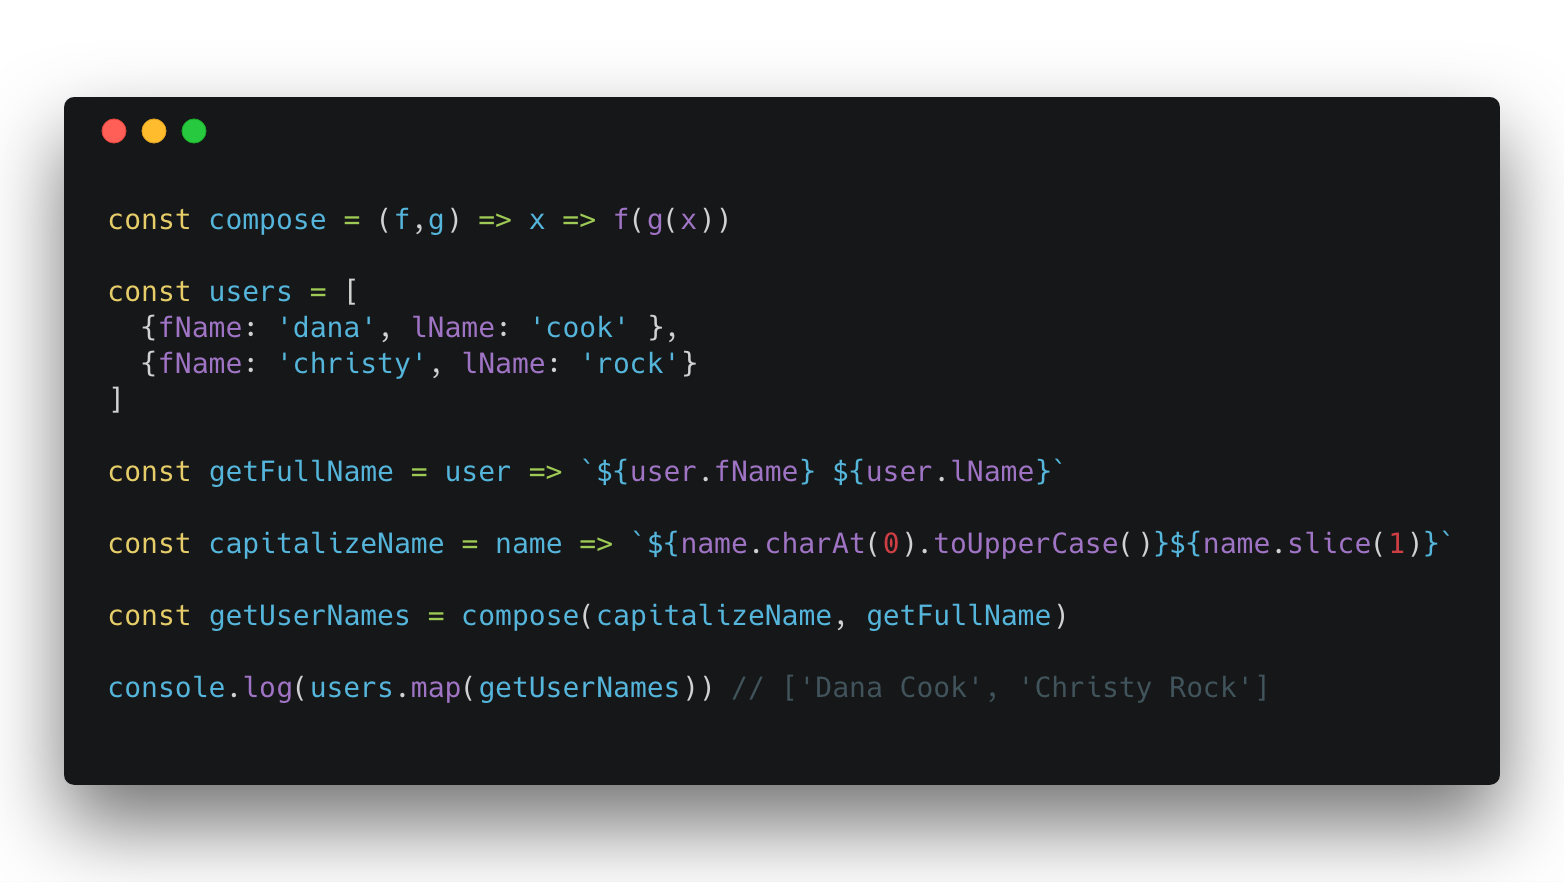
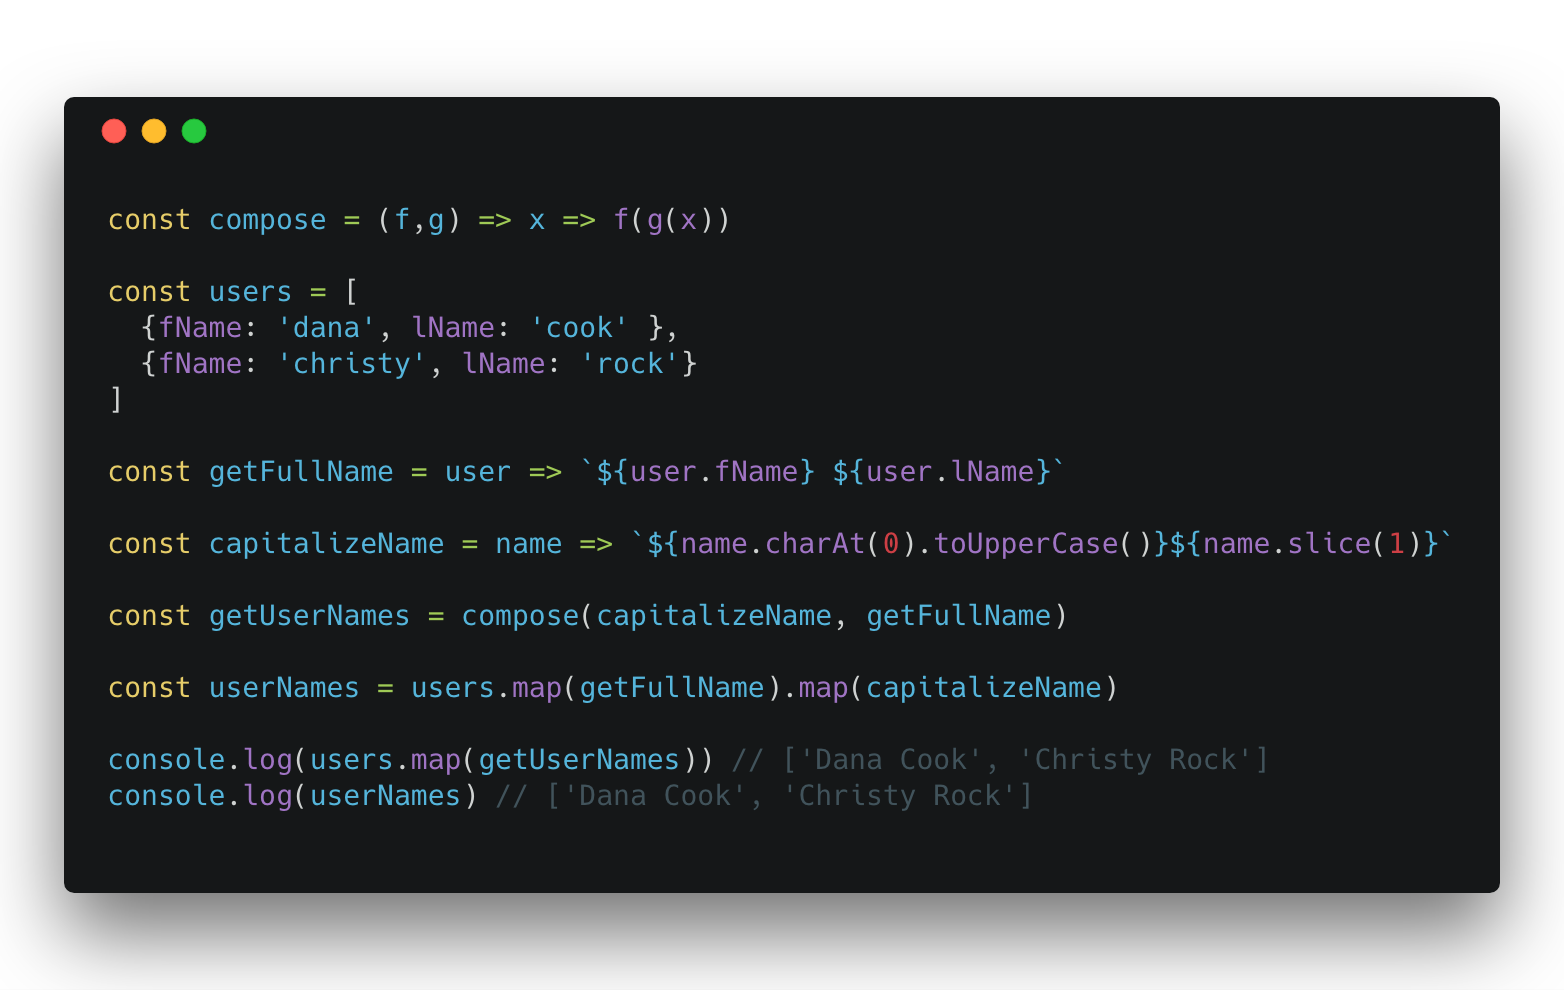
Using right image and also did a rewrite

diff --git a/content/collections/posts/get-to-the-point-free.md b/content/collections/posts/get-to-the-point-free.md
@@ -5,13 +5,12 @@ date: '2018-07-16'
 tags:
 - functional programming
 - point free
-- eta conversion
 - tacit programming
 ---
 
-No one likes to repeat themselves.
+Whether it's in software, conversation or the fifth grade - no one likes to repeat themselves.
 
-Whether it's in software, conversation or the fifth grade, we admonish repetition in favor of abstraction.
+As software developers we're admonished against repetition and counseled instead to seek abstraction. Functional programmers are especially enamored with abstraction and have several techniques to help aid them achieve modularity.
 
 **Point free style** or **tacit programming** is a way of defining functions that doesn't explicitly identify it's parameters.
 
@@ -21,9 +20,9 @@ When I first read that definition I imagined something like this:
 
 `const greet = () => "Hello" + name`
 
-In that example, you would surely be asking yourself where the variable `name` came from. It wasn't a parameter of `greet` so it must be some global state or possibly even an undefined variable destined to crash your program.
+In that example, you would surely be asking yourself where the variable `name` came from. As `name` isn't a parameter of `greet` it must be some global state or possibly even an undefined variable destined to crash your program. The good news is that this sort of <a target="_blank" href="https://medium.com/@jamesjefferyuk/javascript-what-are-pure-functions-4d4d5392d49c">impure</a> code isn't an example of tacit programming.
 
-In reality the way we acheive **point free** code is that we define functions *in terms of* other functions. At some point down the rabbit hole there will be a function defining it's arguments. Let's look at some code.
+In reality the way we achieve point free code is that we define functions *in terms of* other functions. At some point down the rabbit hole there will be a function defining it's arguments. Let's look at some code.
 
 <div class="tiny">![point free style](/images/pointfree.png)
 <br/>
@@ -31,26 +30,32 @@ In reality the way we acheive **point free** code is that we define functions *i
 
 Let it never be said that I can't write a damned good multiply function. Damned good.
 
-I want to direct your attention to the `timesTwo` function. Notice that it takes a parameter `x` and just calls `multiply` that is partially applied with `2` with `x`. However, in this case the parameter `x` is unnecessary because `multiply(2)` returns a function that looks like: `y => 2 * y`.
+I want to direct your attention to the `timesTwo` function. Notice that it takes a parameter `x` and just calls `multiply(2)` with `x`. However, in this case the parameter `x` is unnecessary because `multiply(2)` returns a function that looks like: `y => 2 * y`.
 
-So we say that `timesTwo` identifies it's parameters.
+So we say that `timesTwo` *identifies* it's parameters.
 
-What about the `pointFreeTimesTwo` function? Well it defines itself by saying that it is equal to the aforementioned `multiply(2)` which we learned earlier returns a new function that accepts a number and returns that number multiplied by 2. By defining the function in this way, `pointFreeTimesTwo` doesn't have to introduce an intermediate layer of abstraction, thereby reducing redundancy.
+What about `pointFreeTimesTwo`? It doesn't explicitly tell you what it takes. However we said that `multiply(2)` returns a function, `y => 2 * y` and we define `pointFreeTimesTwo` to be equal to that. So we can deduce what it accepts because we know the function it is equivalent to.
 
-These functions are equivalent in the sense that they both will multiply some number by 2 to get a result, but one is more terse and and avoids unnecessary laziness.
+In terms of utility, `pointFreeTimesTwo` and `timesTwo` are equivalent. However, by defining `pointFreeTimesTwo` in this way we avoid an intermediate layer of abstraction, thereby reducing redundancy. As stated above, at some point there will be one or many functions that define their arguments. You can't have point free all the way down or no parameters would ever be defined!
 
 <br/>
-## Composing
+## Composing Right Along
 <hr/>
 
-When we leverage composition, we can create point free functions such as `getUserNames`.
+Tacit programming encourages the use of **composition**. Leveraging composition and point free style, we can derive functions such as `getUserNames`.
 
 <div class="tiny">![point free style composition](/images/compose-pointfree.png)
 <br/>
 *code samples were made simple by using [Carbon](https://carbon.now.sh/)*</div>
 
+Of course `userNames` accomplishes the same thing but the benefit of using composed functions like `getUserNames` we only have to iterate over the collection once!
+
 <br/>
-## Which is better?
+## Point Counterpoint
 <hr/>
 
-One argument against **point free style** is that it is unreadable. I would say that it *can* be unreadable but it isn't necessarily so. In fact, it can significantly reduce complexity by removing redundant code that obfuscates intention. If you have the benefit of working in a functional language with all the fixin's, this business of readability becomes even less of an issue with a robust type system and currying and composition being built in.
+One argument against point free style is that it is unreadable. It admittedly *can* be unreadable but it isn't necessarily so. Cursive can be unreadable, but when done correctly can be elegant. In fact, tacit programming can significantly reduce complexity by preventing redundant code that only serves to obfuscate intention. If you have the benefit of working in a functional language with all the fixins then readability becomes even less of an issue with currying and composition being built in as it reduces boilerplate.
+
+Point free style isn't a commandment. It's a paradigm that some people adopt early on or tend towards as they begin to lasso the chaos that comes from bloated code. If you're a fan of terse, modular code you certainly can't go wrong with point free style.
+
+
